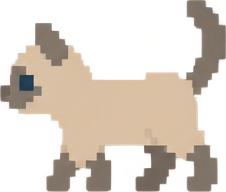
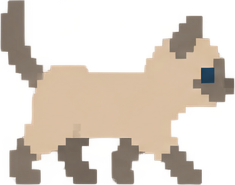
Village round 28: Somi's cycle rebuilt, slowed way down
"make the animation loops make sense and make it change more
rarely."

Two real problems with the round 26 cycle: it only used 8 of the
sheet's 12 poses in a fairly arbitrary order, and the walk frames
were picked out of sequence (3rd-column pose before 2nd), so
"walking" visibly jumped mid-stride instead of reading as one gait.

- All 12 poses now, in an actual order: sit -> blink -> look back
  (both angles) -> a real 4-frame walk cycle in left-to-right
  sequence -> pounce crouch -> pounce -> sit tall and alert -> curl
  up to rest, looping back to the start as if she just woke up. New/
  corrected crops: somi-look-back-1/2.png (replaces the single
  somi-look-back.png), somi-walk-1..4.png (all four, correctly
  ordered), somi-pounce-crouch.png.
- periodSec raised from 24s to 144s across 12 frames instead of 8 -
  each pose now holds for 12 seconds instead of 3. New
  village-cycle-12 keyframe in globals.css drives it.

ATTRIBUTION.md updated with the round 28 breakdown.

diff --git a/components/village/scene/shapes.tsx b/components/village/scene/shapes.tsx
@@ -502,26 +502,35 @@ export function CatShape({ x, y, name = 'Somi', scale = 1, onClick }: {
   const handleClick = onClick ? (e: React.MouseEvent) => { e.stopPropagation(); onClick() } : undefined
   // Real sprite art (round 9), made alive (round 13), replaced (round 15),
   // replaced again (round 20), updated (round 22), briefly cut to a 2-pose
-  // "night ambient" sheet (round 25) that turned out to be a mistake — the
-  // folder's own cat-night-ambient-states.png was REPLACED by the user
-  // with a different sheet (community-props-alpha.png) in the very next
-  // update, meaning that 2-pose source no longer exists in the folder at
-  // all. Round 26 (2026-08-27, "updated folder. only use what is in here")
-  // corrects this: exec-1a806105….png — one of the folder's four
-  // generically-named export files — is the REAL source of round 20's
-  // richer 12-pose set all along (confirmed pixel-identical crops), so
-  // this is back to 8 of those 12 poses, legitimately re-sourced from
-  // what's actually in the folder right now rather than a stray direct
-  // paste. The other 4 (a second back-view sit/blink pair, two more
-  // walk-cycle frames, a second pounce) are cropped and sitting in
-  // public/village-assets/ but not in this cycle.
+  // "night ambient" sheet (round 25), corrected back to 8 poses from the
+  // folder's real 12-pose sheet (round 26) — see that round's own note on
+  // exec-1a806105….png.
+  //
+  // Round 28 (2026-08-27, "make the animation loops make sense and make it
+  // change more rarely") rebuilds the cycle two ways:
+  // 1. All 12 poses now, in an actual narrative order instead of a
+  //    grab-bag: sit, blink, look back (both angles), a full 4-frame walk
+  //    cycle in its real left-to-right sequence (round 26 had walk frames
+  //    3-then-2 out of order, which is exactly the kind of cut this
+  //    request is about), a pounce crouch into the pounce itself, sitting
+  //    up tall and alert, then curling up to rest — and the loop starts
+  //    back at frame 1 as if she just woke up. One lap reads as a small
+  //    "a little while in Somi's day," not a shuffle of unrelated poses.
+  // 2. periodSec way up (24s → 144s, and now spread over 12 frames instead
+  //    of 8) — each pose holds for a full 12 seconds instead of 3, so she
+  //    reads as a still, real photo most of the time and only occasionally
+  //    changes, rather than visibly flicking through poses.
   const h = 20
   const frames = [
     { src: '/village-assets/somi-sit-1.png', aspect: 141 / 195 },
     { src: '/village-assets/somi-sit-2.png', aspect: 159 / 195 },
-    { src: '/village-assets/somi-look-back.png', aspect: 165 / 195 },
-    { src: '/village-assets/somi-walk-1.png', aspect: 226 / 192 },
-    { src: '/village-assets/somi-walk-2.png', aspect: 230 / 185 },
+    { src: '/village-assets/somi-look-back-1.png', aspect: 165 / 195 },
+    { src: '/village-assets/somi-look-back-2.png', aspect: 174 / 195 },
+    { src: '/village-assets/somi-walk-1.png', aspect: 235 / 185 },
+    { src: '/village-assets/somi-walk-2.png', aspect: 226 / 193 },
+    { src: '/village-assets/somi-walk-3.png', aspect: 230 / 185 },
+    { src: '/village-assets/somi-walk-4.png', aspect: 226 / 192 },
+    { src: '/village-assets/somi-pounce-crouch.png', aspect: 210 / 178 },
     { src: '/village-assets/somi-pounce.png', aspect: 216 / 183 },
     { src: '/village-assets/somi-sit-tall.png', aspect: 180 / 188 },
     { src: '/village-assets/somi-curled.png', aspect: 163 / 187 },
@@ -537,7 +546,7 @@ export function CatShape({ x, y, name = 'Somi', scale = 1, onClick }: {
           a stable hit target regardless of which pose is currently up. */}
       {onClick && <circle cx={0} cy={-h / 2} r={Math.max(14, h / 2 + 4)} fill="transparent" style={{ pointerEvents: 'all' }} />}
       <ellipse cx={0} cy={1} rx={h / 2.2} ry={1.6} fill="var(--text)" opacity={0.15} />
-      <SpriteCycle frames={frames} x={0} y={0} height={h} periodSec={24} />
+      <SpriteCycle frames={frames} x={0} y={0} height={h} periodSec={144} />
     </g>
   )
 }

diff --git a/app/globals.css b/app/globals.css
@@ -433,6 +433,10 @@ select, option {
 @keyframes village-cycle-2 { 0%, 49.9% { opacity: 1; } 50%, 100% { opacity: 0; } }
 @keyframes village-cycle-4 { 0%, 24.9% { opacity: 1; } 25%, 100% { opacity: 0; } }
 @keyframes village-cycle-8 { 0%, 12.4% { opacity: 1; } 12.5%, 100% { opacity: 0; } }
+/* Somi's full 12-pose cycle (round 28, 2026-08-27, "make the animation
+   loops make sense and make it change more rarely") — same steps(1)
+   hard-cut idiom as the others, one slice per pose (100%/12 ≈ 8.33%). */
+@keyframes village-cycle-12 { 0%, 8.24% { opacity: 1; } 8.33%, 100% { opacity: 0; } }
 
 /* The cast's idle sway (2026-08-25, removed round 24, 2026-08-27, "do not
    make anything bob") — VillagerShape/CatShape's cast figures render

diff --git a/public/village-assets/ATTRIBUTION.md b/public/village-assets/ATTRIBUTION.md
@@ -313,3 +313,20 @@ had to remove outright for lack of one (bicycle, flower pot, veg crate).
   a `<Draggable>` wrapper (a new small helper in `shapes.tsx`) at its render call. Still
   deliberately NOT draggable: `FOREGROUND`/`MIDGROUND_BUSHES`, the 62 procedurally-scattered texture
   items — dragging one at a time there would be tedium, not customization, same reasoning as always.
+
+## Round 28 (2026-08-27) — Somi's cycle rebuilt for real, and slowed way down
+
+"make the animation loops make sense and make it change more rarely."
+
+Two real problems with the round 26 cycle, not just polish: it only used 8 of the sheet's 12 poses
+in a fairly arbitrary order, and round 26's own walk frames were picked out of sequence (the
+3rd-column pose before the 2nd), so "walking" visibly jumped mid-stride instead of reading as one
+gait. Both fixed:
+- All 12 poses now, in an actual order: sit → blink → look back (both angles) → a real 4-frame
+  walk cycle in its left-to-right sequence → a pounce crouch → the pounce → sitting up tall and
+  alert → curling up to rest, looping back to the start as if she just woke up. New crops:
+  `somi-look-back-1.png`/`-2.png` (replacing the single `somi-look-back.png`), `somi-walk-1.png`
+  …`-4.png` (all four, correctly ordered — round 26's `somi-walk-1/2.png` are overwritten with the
+  correct frames), `somi-pounce-crouch.png`.
+- `periodSec` raised from 24s to 144s, spread across 12 frames instead of 8 — each pose now holds
+  for 12 real seconds instead of 3. A new `village-cycle-12` keyframe (`globals.css`) drives it.
